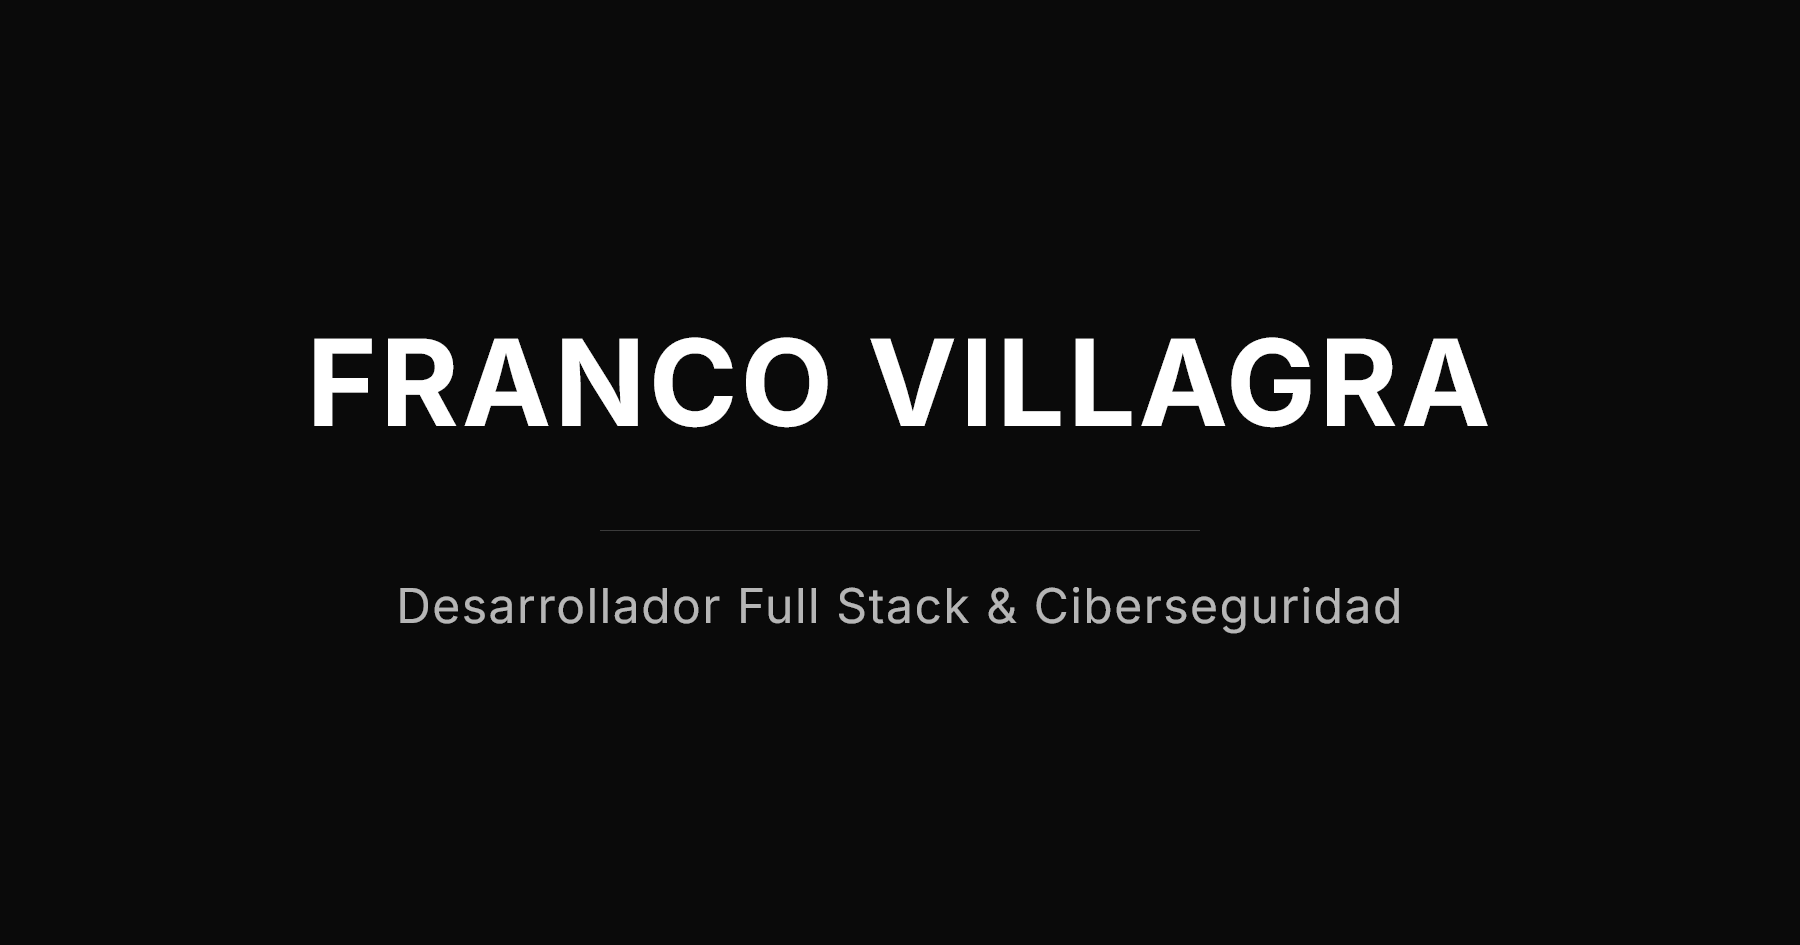
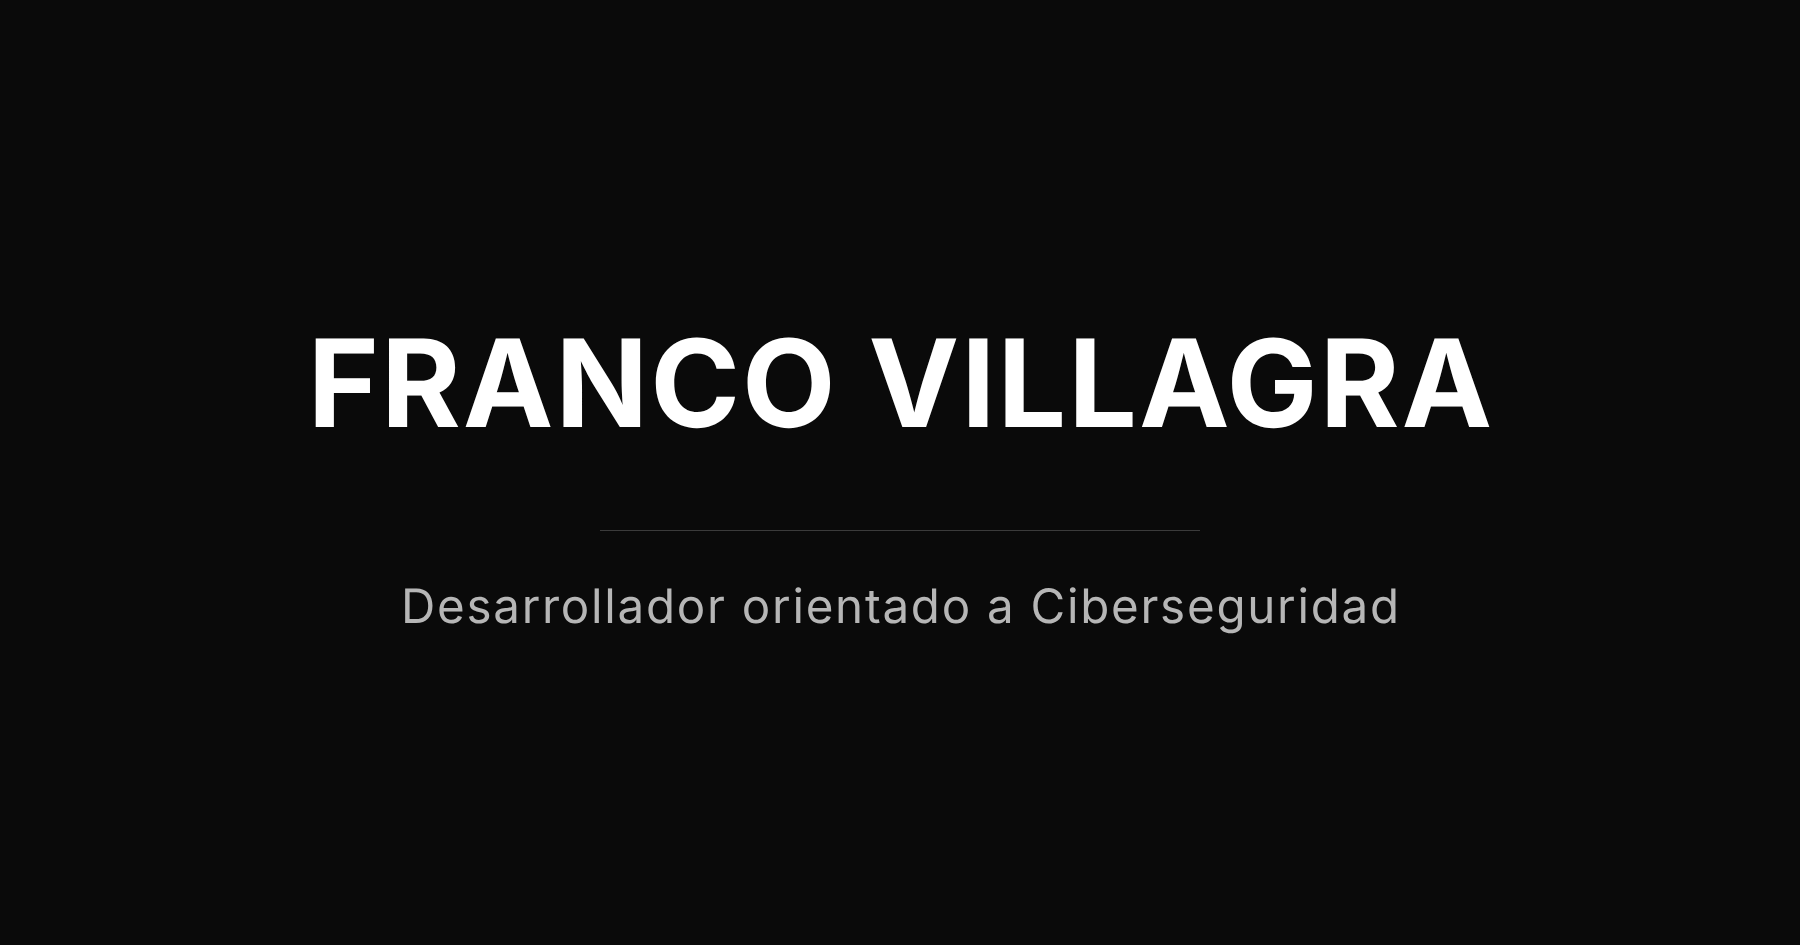
feat(portfolio): posicionamiento "orientado a Ciberseguridad" y codigo a pedido bajo NDA
- Titulo, descripcion, metadatos y "Sobre mi": "Desarrollador orientado a
  Ciberseguridad", con "revision de seguridad" para apps Next.js, Supabase y Vercel.
- Proyectos: se quitan los enlaces a los repositorios. Cada tarjeta suma
  "Pedir acceso al codigo" (correo con plantilla; el codigo se comparte a pedido,
  bajo NDA) y una lista de comprobaciones que hoy se pueden demostrar.
- Demos: "Demo" pasa a "Ver demo"; las detenidas muestran "Demo en pausa".
- Imagen OG regenerada con el nuevo subtitulo.
- README y LEEME al dia.

Verificado con build estatico (TypeScript sin errores) y Chromium sobre las
cabeceras reales: sin errores de consola ni violaciones de CSP en escritorio y movil.

Claude-Session: https://claude.ai/code/session_01Li7oSnkdLq6CLphJmEKAGr

diff --git a/data/projects.ts b/data/projects.ts
@@ -1,9 +1,11 @@
 /**
  * Estado de la demo en línea:
- * - "live": funciona hoy; se muestra el botón Demo con `liveUrl`.
+ * - "live": funciona hoy; se muestra el botón Ver demo con `liveUrl`.
  * - "paused": existe pero su backend está detenido; se muestra "Demo en pausa" y no se enlaza.
- * - "none": no hay una demo que mostrar; solo el código.
- * Cambiar el estado en un solo lugar evita que el portfolio prometa algo que no responde.
+ * - "none": no hay una demo que mostrar.
+ * Cambiar el estado en un solo lugar evita que el portfolio prometa algo que no responda.
+ *
+ * El código de los proyectos no se enlaza: se comparte a pedido, bajo NDA (botón "Pedir acceso al código").
  */
 export type DemoStatus = "live" | "paused" | "none";
 
@@ -16,7 +18,8 @@ export interface Project {
   completedAt: string; // "YYYY-MM" of last commit
   demo: DemoStatus;
   liveUrl?: string; // solo se enlaza cuando demo === "live"
-  githubUrl?: string;
+  /** Comprobaciones verificadas en el código, el CI o producción. Solo lo que hoy se puede demostrar. */
+  proofs?: string[];
   image?: string;
 }
 
@@ -27,11 +30,15 @@ const projects: Project[] = [
     title: "Web Vulnerability Scanner",
     featured: true,
     completedAt: '2026-06',
-    description: "Chequeo básico de seguridad para un sitio web, sin registro: HTTPS y certificado TLS, headers, cookies e información expuesta, con recomendaciones en lenguaje claro. Protegido contra SSRF y abuso, con tests de regresión.",
+    description: "Chequeo básico de seguridad para un sitio web, sin registro: HTTPS y certificado TLS, headers, cookies e información expuesta, con recomendaciones en lenguaje claro.",
     technologies: ["Next.js", "TypeScript", "Axios", "Tailwind CSS", "Zod", "Vitest", "Vercel"],
     demo: "live",
     liveUrl: "https://web-vulnerability-scanner-red.vercel.app",
-    githubUrl: "https://github.com/francovillagra/web-vulnerability-scanner",
+    proofs: [
+      "218 pruebas automáticas",
+      "Integración continua con GitHub Actions",
+      "Defensa contra SSRF en varias capas, con pruebas de regresión",
+    ],
     image: "/projects/vulnerability-scanner.jpeg",
   },
   {
@@ -43,7 +50,11 @@ const projects: Project[] = [
     technologies: ["Next.js", "TypeScript", "FastAPI", "Python", "PostgreSQL", "Supabase", "Railway", "Recharts", "Tailwind CSS"],
     demo: "paused", // la base de datos (Supabase, plan gratuito) está en pausa
     liveUrl: "https://recon-scope.vercel.app",
-    githubUrl: "https://github.com/francovillagra/recon-scope",
+    proofs: [
+      "272 pruebas automáticas",
+      "Prueba de punta a punta con Docker Compose en el CI",
+      "Hallazgos de una revisión propia (SSRF, DoS, dependencias) corregidos y cubiertos por pruebas",
+    ],
     image: "/projects/recon_scope_card_v3.svg",
   },
   {
@@ -54,7 +65,11 @@ const projects: Project[] = [
     description: "SIEM-lite de Blue Team: ingiere logs, detecta patrones de ataque en tiempo real (fuerza bruta, SQLi, path traversal, XSS, scanners) y transmite alertas a un dashboard live vía WebSocket.",
     demo: "paused", // la base de datos (Supabase, plan gratuito) está en pausa
     liveUrl: "https://log-sentinel-eta.vercel.app",
-    githubUrl: "https://github.com/francovillagra/log-sentinel",
+    proofs: [
+      "760 pruebas automáticas",
+      "Hallazgos de una revisión propia (ReDoS, entradas sin límite) corregidos y cubiertos por pruebas",
+      "Imagen de contenedor sin root, construida en el CI",
+    ],
     technologies: ["Python", "FastAPI", "Next.js", "TypeScript", "Redis", "Supabase", "WebSocket", "JWT"],
     image: "/images/log-sentinel-banner.svg",
   },
@@ -63,11 +78,15 @@ const projects: Project[] = [
     title: "Authentication & Authorization API",
     featured: true,
     completedAt: '2026-06',
-    description: "API REST con autenticación JWT, refresh tokens, rate limiting y bcrypt. Endpoints de registro, login y rutas protegidas. Documentación completa con ejemplos de uso.",
+    description: "API REST con autenticación JWT, rate limiting y bcrypt. Registro, login, logout que revoca la sesión y rutas protegidas por rol. Documentación con ejemplos de uso.",
     technologies: ["Next.js", "TypeScript", "Prisma", "PostgreSQL", "JWT", "Redis", "Zod"],
     // Sin demo: es una API sin interfaz, y la dirección que se enlazaba antes no era la del proyecto.
     demo: "none",
-    githubUrl: "https://github.com/francovillagra/auth-api-security",
+    proofs: [
+      "Refresh tokens con rotación y detección de reuso",
+      "RLS activo en las 4 tablas de la base",
+      "Pruebas de integración contra PostgreSQL real en el CI",
+    ],
     image: "/projects/auth-api-card.svg",
   },
 ];

diff --git a/components/sections/Projects/ProjectCard.tsx b/components/sections/Projects/ProjectCard.tsx
@@ -2,9 +2,10 @@
 
 import Image from "next/image";
 import { motion } from "framer-motion";
-import { Github, ExternalLink, CirclePause } from "lucide-react";
+import { Check, ExternalLink, CirclePause, Mail } from "lucide-react";
 import { useState } from "react";
 import type { Project } from "@/data/projects";
+import { codeAccessMailto } from "@/lib/contact";
 
 const cardVariants = {
   hidden: { opacity: 0, y: 20 },
@@ -20,7 +21,7 @@ type ProjectCardProps = Project & {
   highlightColor?: string;
 };
 
-export default function ProjectCard({ title, description, image, technologies, demo, liveUrl, githubUrl, highlightTechs, highlightColor }: ProjectCardProps) {
+export default function ProjectCard({ title, description, image, technologies, demo, liveUrl, proofs, highlightTechs, highlightColor }: ProjectCardProps) {
   const [src, setSrc] = useState(image ?? "/projects/placeholder.jpg");
 
   return (
@@ -51,10 +52,24 @@ export default function ProjectCard({ title, description, image, technologies, d
           <h3 className="text-base md:text-lg font-semibold tracking-tight text-white">
             {title}
           </h3>
-          <p className="text-sm leading-relaxed text-white/70 line-clamp-3">
+          <p className="text-sm leading-relaxed text-white/70">
             {description}
           </p>
         </div>
+
+        {proofs && proofs.length > 0 && (
+          <ul className="mt-3 space-y-1.5">
+            {proofs.map((proof) => (
+              <li key={proof} className="flex items-start gap-2 text-xs leading-snug text-white/70">
+                <Check size={14} aria-hidden="true" className="mt-px shrink-0 text-white/50" />
+                <span>
+                  <span className="sr-only">Comprobado: </span>
+                  {proof}
+                </span>
+              </li>
+            ))}
+          </ul>
+        )}
 
         {technologies.length > 0 && (
           <div className="mt-3 flex flex-wrap gap-2">
@@ -81,8 +96,8 @@ export default function ProjectCard({ title, description, image, technologies, d
               rel="noopener noreferrer"
               className="inline-flex items-center gap-2 rounded-lg bg-white px-3 py-2 text-xs md:text-sm font-semibold text-black transition hover:opacity-90"
             >
-              <ExternalLink size={14} />
-              Demo
+              <ExternalLink size={14} aria-hidden="true" />
+              Ver demo
             </a>
           )}
           {demo === "paused" && (
@@ -91,17 +106,13 @@ export default function ProjectCard({ title, description, image, technologies, d
               Demo en pausa
             </span>
           )}
-          {githubUrl && (
-            <a
-              href={githubUrl}
-              target="_blank"
-              rel="noopener noreferrer"
-              className="inline-flex items-center gap-2 rounded-lg border border-white/20 px-3 py-2 text-xs md:text-sm font-medium text-white/90 transition hover:border-white/45 hover:text-white"
-            >
-              <Github size={14} />
-              Repo
-            </a>
-          )}
+          <a
+            href={codeAccessMailto(title)}
+            className="inline-flex items-center gap-2 rounded-lg border border-white/20 px-3 py-2 text-xs md:text-sm font-medium text-white/90 transition hover:border-white/45 hover:text-white"
+          >
+            <Mail size={14} aria-hidden="true" />
+            Pedir acceso al código
+          </a>
         </div>
       </div>
     </motion.article>

diff --git a/app/layout.tsx b/app/layout.tsx
@@ -22,21 +22,21 @@ const jetbrainsMono = JetBrains_Mono({
 });
 
 export const metadata: Metadata = {
-  title: 'Franco Villagra — Full Stack · Seguridad de Aplicaciones Web',
-  description: 'Franco Villagra, desarrollador Full Stack especializado en seguridad de aplicaciones web. Pentesting web, revisiones de seguridad para Next.js, proyectos y CV.',
+  title: 'Franco Villagra — Desarrollador orientado a Ciberseguridad',
+  description: 'Franco Villagra, desarrollador orientado a ciberseguridad. Revisión de seguridad para apps con Next.js, Supabase y Vercel, proyectos y CV.',
   keywords: [
     'Franco Villagra',
     'desarrollador',
-    'full stack',
     'ciberseguridad',
+    'revisión de seguridad',
     'seguridad de aplicaciones web',
-    'pentesting web',
     'AppSec',
     'Next.js',
+    'Supabase',
+    'Vercel',
     'React',
     'TypeScript',
     'portfolio',
-    'developer',
     'Buenos Aires',
     'Argentina',
   ],
@@ -48,8 +48,8 @@ export const metadata: Metadata = {
     canonical: '/',
   },
   openGraph: {
-    title: 'Franco Villagra — Full Stack · Seguridad de Aplicaciones Web',
-    description: 'Desarrollador Full Stack especializado en seguridad de aplicaciones web: pentesting web, revisiones de seguridad y proyectos.',
+    title: 'Franco Villagra — Desarrollador orientado a Ciberseguridad',
+    description: 'Revisión de seguridad para apps con Next.js, Supabase y Vercel: informe priorizado, con evidencia y plan de corrección. Proyectos y CV.',
     url: SITE_URL,
     siteName: 'Franco Villagra Portfolio',
     locale: 'es_AR',
@@ -59,14 +59,14 @@ export const metadata: Metadata = {
         url: '/og-image.png',
         width: 1200,
         height: 630,
-        alt: 'Franco Villagra — Full Stack Developer',
+        alt: 'Franco Villagra — Desarrollador orientado a Ciberseguridad',
       },
     ],
   },
   twitter: {
     card: 'summary_large_image',
-    title: 'Franco Villagra — Full Stack · Seguridad de Aplicaciones Web',
-    description: 'Desarrollador Full Stack especializado en seguridad de aplicaciones web: pentesting web, revisiones de seguridad y proyectos.',
+    title: 'Franco Villagra — Desarrollador orientado a Ciberseguridad',
+    description: 'Revisión de seguridad para apps con Next.js, Supabase y Vercel: informe priorizado, con evidencia y plan de corrección. Proyectos y CV.',
     images: ['/og-image.png'],
   },
   robots: {

diff --git a/components/sections/About/AboutSection.tsx b/components/sections/About/AboutSection.tsx
@@ -14,7 +14,7 @@ export default function AboutSection() {
       {/* Bio */}
       <div className="mb-16 max-w-3xl mx-auto space-y-6">
         <p className="text-base md:text-lg text-fg/70 leading-relaxed">
-          Soy <span className="text-fg/90 font-medium">Desarrollador Full Stack</span> especializado en seguridad de aplicaciones web. Construyo con <span className="text-fg/90">TypeScript/Next.js y Python/FastAPI</span>, con la seguridad como requisito en todo el ciclo de vida del software (SDLC), y pruebo lo que construyo antes de darlo por bueno. Vengo de 8 años como auditor externo en el sector público: verificar con evidencia es mi oficio. Estudio la Licenciatura en Ciberdefensa (FADENA), sobre una base de Desarrollo Full Stack (UTN). Mis proyectos son públicos en GitHub, con el código a la vista.
+          Soy <span className="text-fg/90 font-medium">Desarrollador orientado a Ciberseguridad</span>. Construyo con <span className="text-fg/90">TypeScript/Next.js y Python/FastAPI</span>, con la seguridad como requisito en todo el ciclo de vida del software (SDLC), y pruebo lo que construyo antes de darlo por bueno. Vengo de 8 años como auditor externo en el sector público: verificar con evidencia es mi oficio. Estudio la Licenciatura en Ciberdefensa (FADENA), sobre una base de Desarrollo Full Stack (UTN). El código de mis proyectos se comparte a pedido, bajo NDA.
         </p>
       </div>
 

diff --git a/lib/contact.ts b/lib/contact.ts
@@ -16,3 +16,17 @@ export function reviewMailto(): string {
 
   return `mailto:${CONTACT_EMAIL}?subject=${encodeURIComponent(subject)}&body=${encodeURIComponent(body)}`;
 }
+
+/** Enlace de correo para pedir acceso al código de un proyecto: se comparte a pedido, bajo NDA. */
+export function codeAccessMailto(projectTitle: string): string {
+  const subject = `Acceso al código: ${projectTitle}`;
+  const body = [
+    `Hola Franco, quiero pedir acceso al código de ${projectTitle}.`,
+    "",
+    "Quién soy y para qué quiero verlo:",
+    "Empresa o equipo:",
+    "Si hace falta un NDA, lo firmo antes de recibir el acceso.",
+  ].join("\n");
+
+  return `mailto:${CONTACT_EMAIL}?subject=${encodeURIComponent(subject)}&body=${encodeURIComponent(body)}`;
+}

diff --git a/app/page.tsx b/app/page.tsx
@@ -16,7 +16,7 @@ export default function Home() {
 
           {/* Position label */}
           <p className="text-[9px] md:text-[11px] font-mono tracking-normal md:tracking-ultra uppercase text-fg/60 mb-9">
-            Full Stack Developer &middot; Seguridad de Aplicaciones Web
+            Desarrollador orientado a Ciberseguridad
           </p>
 
           {/* Name */}

diff --git a/lib/projects.ts b/lib/projects.ts
@@ -23,7 +23,6 @@ export function mapRepoToProject(repo: GitHubRepo): Project {
     // El homepage del repo no garantiza que la demo responda: se muestra solo si hay una dirección.
     demo: repo.homepage ? "live" : "none",
     liveUrl: repo.homepage || undefined,
-    githubUrl: repo.html_url,
   };
 }
 

diff --git a/README.md b/README.md
@@ -1,8 +1,8 @@
 # Francoverse — Portfolio
 
-Portfolio personal de Franco Villagra — Full Stack Developer · Seguridad de Aplicaciones Web.
+Portfolio personal de Franco Villagra, desarrollador orientado a ciberseguridad.
 
-Proyectos públicos que combinan desarrollo (TypeScript/Next.js · Python/FastAPI) con seguridad aplicada: autenticación, escaneo de vulnerabilidades, reconocimiento automatizado y monitoreo de logs de seguridad. También ofrece revisiones de seguridad para aplicaciones web (sección Servicios).
+Proyectos que combinan desarrollo (TypeScript/Next.js · Python/FastAPI) con seguridad aplicada: autenticación, escaneo de vulnerabilidades, reconocimiento automatizado y monitoreo de logs de seguridad. El código se comparte a pedido, bajo NDA. También ofrece revisiones de seguridad para aplicaciones web (sección Servicios).
 
 🔗 **[francoverse.fvillagra-dev.workers.dev](https://francoverse.fvillagra-dev.workers.dev)**
 
@@ -12,7 +12,7 @@ Proyectos públicos que combinan desarrollo (TypeScript/Next.js · Python/FastAP
 
 - **Hero** — Presentación con tagline, descarga de CV y marquee de tecnologías con color de marca
 - **Sobre mí** — Bio + ficha rápida (Formación / Stack / Foco)
-- **Proyectos** — Filtro interactivo por tecnología + cards con imagen, stack, links y estado de la demo. Vista completa en `/proyectos`
+- **Proyectos** — Filtro interactivo por tecnología + cards con imagen, stack, comprobaciones verificadas, estado de la demo y pedido de acceso al código. Vista completa en `/proyectos`
 - **Servicios** — Revisión de seguridad express para aplicaciones Next.js/Supabase/Vercel y seguridad automática en repositorios. El botón de contacto abre un correo con una plantilla para describir el sitio
 - **Contacto** — Email y redes sociales
 
@@ -37,20 +37,22 @@ Proyectos públicos que combinan desarrollo (TypeScript/Next.js · Python/FastAP
 
 | Proyecto | Stack | Demo | Código |
 |---|---|---|---|
-| **Web Vulnerability Scanner** | Next.js · TypeScript · Axios · Tailwind CSS · Zod · Vitest · Vercel | [En línea](https://web-vulnerability-scanner-red.vercel.app) | [Repo](https://github.com/francovillagra/web-vulnerability-scanner) |
-| **Recon Scope** | Next.js · TypeScript · FastAPI · Python · PostgreSQL · Supabase · Railway · Recharts · Tailwind CSS | En pausa | [Repo](https://github.com/francovillagra/recon-scope) |
-| **Log-Sentinel** | Python · FastAPI · Next.js · TypeScript · Redis · Supabase · WebSocket · JWT | En pausa | [Repo](https://github.com/francovillagra/log-sentinel) |
-| **Authentication & Authorization API** | Next.js · TypeScript · Prisma · PostgreSQL · JWT · Redis · Zod | Sin demo (API sin interfaz) | [Repo](https://github.com/francovillagra/auth-api-security) |
+| **Web Vulnerability Scanner** | Next.js · TypeScript · Axios · Tailwind CSS · Zod · Vitest · Vercel | [En línea](https://web-vulnerability-scanner-red.vercel.app) | A pedido, bajo NDA |
+| **Recon Scope** | Next.js · TypeScript · FastAPI · Python · PostgreSQL · Supabase · Railway · Recharts · Tailwind CSS | En pausa | A pedido, bajo NDA |
+| **Log-Sentinel** | Python · FastAPI · Next.js · TypeScript · Redis · Supabase · WebSocket · JWT | En pausa | A pedido, bajo NDA |
+| **Authentication & Authorization API** | Next.js · TypeScript · Prisma · PostgreSQL · JWT · Redis · Zod | Sin demo (API sin interfaz) | A pedido, bajo NDA |
 
 ### Estado de las demos
 
 Cada proyecto declara en `data/projects.ts` el campo `demo`:
 
-- `"live"` — responde hoy: la card muestra el botón **Demo** con `liveUrl`.
+- `"live"` — responde hoy: la card muestra el botón **Ver demo** con `liveUrl`.
 - `"paused"` — existe, pero su backend está detenido (por ejemplo, base de datos en el plan gratuito de Supabase, que se pausa tras una semana sin uso): la card muestra **Demo en pausa** y no enlaza nada.
-- `"none"` — no hay demo que mostrar: solo el código.
+- `"none"` — no hay demo que mostrar.
 
 Así el portfolio no promete nada que no responda. Para reactivar una demo, alcanza con restaurar el backend y cambiar `demo` a `"live"`.
+
+El código no se enlaza: cada card tiene el botón **Pedir acceso al código**, que abre un correo con el asunto y una plantilla ya escritos (`codeAccessMailto` en `lib/contact.ts`). La lista `proofs` de cada proyecto solo incluye lo que hoy se puede demostrar (pruebas, CI, controles verificados).
 
 ---
 
@@ -138,7 +140,7 @@ Francoverse/
 │   ├── skills.ts                 # 7 tiles curados con match[] y color
 │   └── techColors.ts             # Fuente única de color por tecnología (rgb)
 ├── lib/
-│   ├── contact.ts                # Email de contacto, URL del escáner y mailto de la revisión
+│   ├── contact.ts                # Email de contacto, URL del escáner y mailto de la revisión y del acceso al código
 │   └── security-headers.ts       # Headers de seguridad y CSP
 ├── public/
 │   └── projects/                 # Imágenes de los proyectos
@@ -152,7 +154,7 @@ Francoverse/
 **Una sola fuente de verdad por concepto:**
 - Colores de tecnología → `data/techColors.ts` (usados en TechMarquee y SkillTiles)
 - Stack y estado de la demo de cada proyecto → `data/projects.ts` (`technologies[]`, `demo`)
-- Datos de contacto → `lib/contact.ts` (usados por la sección Contacto y el botón de Servicios)
+- Datos de contacto → `lib/contact.ts` (usados por la sección Contacto, el botón de Servicios y el pedido de acceso al código)
 - Tiles de habilidades → `data/skills.ts` con `match[]` que puente hacia `technologies[]`
 
 **Habilidades data-driven:** los tiles de la sección Proyectos derivan su conteo y filtrado del array de proyectos en tiempo de render. Agregar un proyecto nuevo con su `technologies[]` lo hace aparecer automáticamente bajo cada tile que matchee — sin tocar el componente.
@@ -163,7 +165,7 @@ Francoverse/
 
 ## Autor
 
-**Franco Villagra** — Full Stack Developer · Seguridad de Aplicaciones Web
+**Franco Villagra** — Desarrollador orientado a Ciberseguridad
 
 - Portfolio: [francoverse.fvillagra-dev.workers.dev](https://francoverse.fvillagra-dev.workers.dev)
 - GitHub: [@francovillagra](https://github.com/francovillagra)

diff --git a/LEEME.md b/LEEME.md
@@ -63,5 +63,5 @@ yarn lint
 
 ---
 
-Desarrollador por Franco Villagra - Desarrollador Fullstack
+Desarrollador por Franco Villagra - Desarrollador orientado a Ciberseguridad
 Creando Soluciones con tecnología
